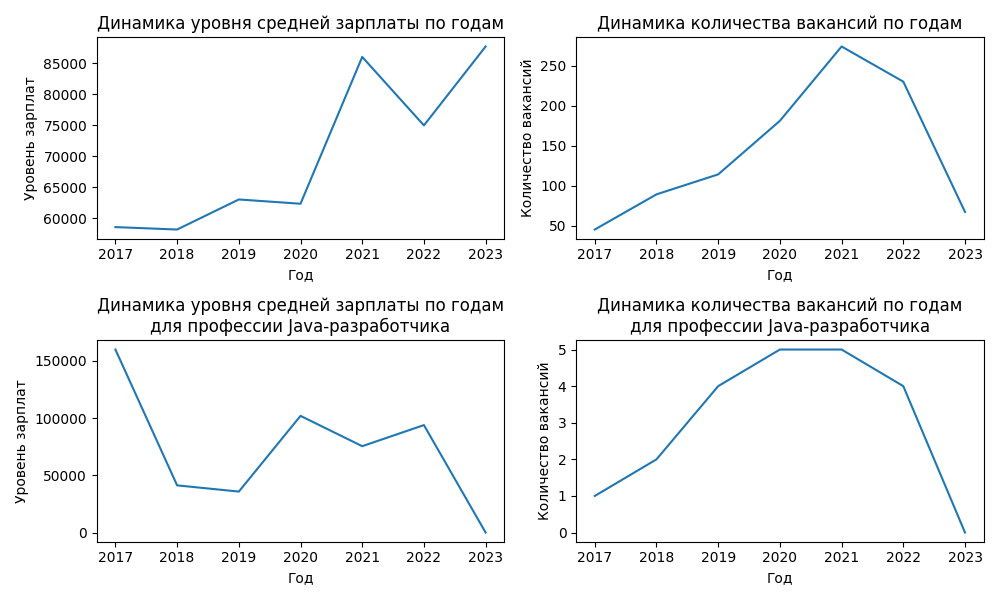
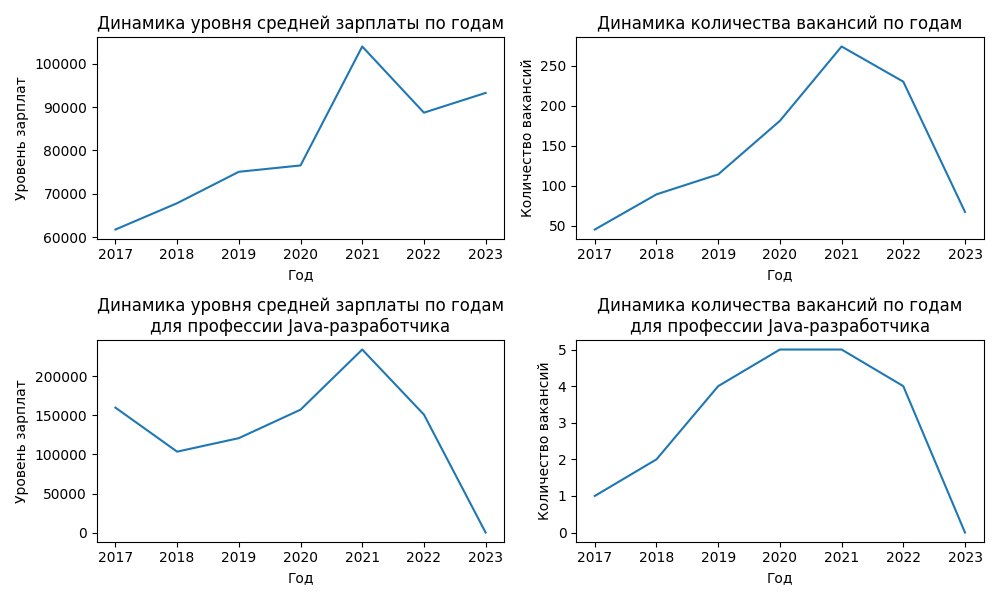
Исправленное API ЦБ РФ, красивые графики географики

diff --git a/vacancies_website/static/css/style.css b/vacancies_website/static/css/style.css
@@ -98,6 +98,10 @@ p{
     padding-left: 15px;
 }
 
+.geo-graph-img {
+    padding-top: -200px;
+}
+
 .main-block{
     min-height: 553px;
 }

diff --git a/vacancies_website/utility_georaphy.py b/vacancies_website/utility_georaphy.py
@@ -5,19 +5,34 @@ from vacancies_website.currency import get_curent_salary
 
 
 def get_geograpgy_info():
-
 	file_name = "C:/Users/eldo3/Downloads/example_vacancies/vacancies_for_learn_demo.csv"
 	vac_name = 'java'
 	vacancies = pd.read_csv(file_name)
 	pd.set_option('display.max_columns', None)
+
 	vacancies['year'] = vacancies['published_at'].str[0:4]
 	vacancies['salary'] = get_curent_salary(vacancies)
+	sl = vacancies['salary']
+
+	area_percent_all = {}
+	area_salary_all = {}
+
+	all_vacancies_grouped_by_area = vacancies.groupby('area_name').agg(['sum', 'count'])['salary']
+
+	for index, row in all_vacancies_grouped_by_area.iterrows():
+		if row['count'] / len(all_vacancies_grouped_by_area) >= 0.1:
+			area_salary_all[index] = int((row['sum'] // row['count']))
+			area_percent_all[index] = row['count'] / len(all_vacancies_grouped_by_area)
+
+	area_salary_all = list(sorted(area_salary_all.items(), key=lambda x: x[1], reverse=True))
+	area_percent_all = list(sorted(area_percent_all.items(), key=lambda x: x[1], reverse=True))
 
 	sorted_vacancies = vacancies.loc[vacancies['name'].str.contains(vac_name, na=False, case=False)]
-
 	vacancies_grouped_by_area = sorted_vacancies.groupby('area_name').agg(['sum', 'count'])['salary']
+
 	area_percent = {}
 	area_salary = {}
+
 	for index, row in vacancies_grouped_by_area.iterrows():
 		if row['count'] / len(sorted_vacancies) >= 0.01:
 			area_salary[index] = int((row['sum'] // row['count']))
@@ -26,23 +41,48 @@ def get_geograpgy_info():
 	area_salary = list(sorted(area_salary.items(), key=lambda x: x[1], reverse=True))
 	area_percent = list(sorted(area_percent.items(), key=lambda x: x[1], reverse=True))
 
-	plt.figure(figsize=(10, 5))
+	get_geography_graph(area_salary_all, area_percent_all, area_salary, area_percent)
+
+
+def get_geography_graph(area_salary_all, area_percent_all, area_salary, area_percent):
+	plt.figure(figsize=(10, 25))
+	plt.subplots_adjust(hspace=0.7)
 
 	# График зарплат
-	plt.subplot(2, 2, 1)
+	plt.subplot(4, 1, 1)
+	plt.xticks(rotation=60)
+	area_names = [item[0] for item in area_salary_all]
+	salaries = [item[1] for item in area_salary_all]
+	plt.bar(area_names, salaries)
+	plt.xlabel('Город')
+	plt.ylabel('Уровень зарплат')
+	plt.title('Уровень зарплат по всем городам (в порядке убывания)')
+
+	# График процентов
+	plt.subplot(4, 1, 2)
+	plt.xticks(rotation=60)
+	area_names = [item[0] for item in area_percent_all]
+	percents = [item[1] for item in area_percent_all]
+	plt.bar(area_names, percents)
+	plt.xlabel('Город')
+	plt.ylabel('Доля вакансий')
+	plt.title('Доля вакансий по всем городам (в порядке убывания)')
+
+	# График зарплат
+	plt.subplot(4, 1, 3)
+	plt.xticks(rotation=60)
 	area_names = [item[0] for item in area_salary]
 	salaries = [item[1] for item in area_salary]
-	# plt.figure(figsize=(10, 5))
 	plt.bar(area_names, salaries)
 	plt.xlabel('Город')
 	plt.ylabel('Уровень зарплат')
 	plt.title('Уровень зарплат по городам (в порядке убывания)')
 
 	# График процентов
-	plt.subplot(2, 2, 2)
+	plt.subplot(4, 1, 4)
+	plt.xticks(rotation=60)
 	area_names = [item[0] for item in area_percent]
 	percents = [item[1] for item in area_percent]
-	# plt.figure(figsize=(10, 5))
 	plt.bar(area_names, percents)
 	plt.xlabel('Город')
 	plt.ylabel('Доля вакансий')
@@ -51,4 +91,4 @@ def get_geograpgy_info():
 	plt.savefig('vacancies_website/static/images/plot_geo')
 
 
-# get_geograpgy_info()
+get_geograpgy_info()

diff --git a/vacancies_website/currency.py b/vacancies_website/currency.py
@@ -1,6 +1,7 @@
 import sqlite3
 
 import pandas as pd
+from bs4 import BeautifulSoup
 
 
 def create_currency_table():
@@ -9,13 +10,10 @@ def create_currency_table():
 	from datetime import datetime
 	from sqlalchemy import create_engine
 
-	# Определите URL API
 	url = "https://www.cbr.ru/scripts/XML_daily.asp"
 
-	# Определите валюты, которые вам нужны
 	currencies = ["BYR", "USD", "EUR", "KZT", "UAH", "AZN", "KGS", "UZS", "GEL"]
 
-	# Создайте файл CSV
 	with open("vacancies_website/static/currency_table.csv", "w", newline="") as file:
 		writer = csv.writer(file)
 		writer.writerow(["date"] + currencies)
@@ -24,31 +22,25 @@ def create_currency_table():
 		date = datetime(2017, 1, 1)
 		end_date = datetime(2023, 12, 1)
 		while date <= end_date:
-			# Получите данные с API
 			response = requests.get(url, params={"date_req": date.strftime("%d/%m/%Y")})
-			data = response.content.decode("windows-1251")
 
-			# Извлеките курсы валют
-			rates = []
-			for currency in currencies:
-				start = data.find("<CharCode>" + currency + "</CharCode>")
-				if start != -1:
-					start = data.find("<Value>", start) + 7
-					end = data.find("</Value>", start)
-					rate = data[start:end].replace(",", ".")
-					rates.append(float(rate))
-				elif currency == "BYR" and start == -1:
-					start = data.find("<Value>", 887) + 7
-					end = data.find("</Value>", 887)
-					rate = data[start:end].replace(",", ".")
-					rates.append(float(rate))
-				else:
-					rates.append("")
+			soup = BeautifulSoup(response.content, 'xml')
+			valutes = soup.find_all('Valute')
 
-			# Запишите данные в CSV
+			rates = [0.0, 0.0, 0.0, 0.0, 0.0, 0.0, 0.0, 0.0, 0.0]
+			for valute in range(len(valutes)):
+				if valutes[valute].CharCode.text in currencies or valutes[valute].CharCode.text == "BYN":
+					course = valutes[valute].Value.text.replace(',', '.')
+					nominal = valutes[valute].Nominal.text
+					value = round(float(course) / float(nominal), 8)
+
+					if valutes[valute].CharCode.text == "BYN":
+						rates[currencies.index('BYR')] = value
+					else:
+						rates[currencies.index(valutes[valute].CharCode.text)] = value
+
 			writer.writerow([date.strftime("%Y-%m")] + rates)
 
-			# Перейдите к следующему месяцу
 			if date.month == 12:
 				date = date.replace(year=date.year + 1, month=1)
 			else:
@@ -71,6 +63,7 @@ def get_curent_salary(df):
 	salaries = df['salary_from'].copy()
 
 	for index, row in df.iterrows():
+		va = row['salary_currency']
 		salary = 0
 		date = str(row['published_at'][:7])
 		currency = 1
@@ -85,12 +78,15 @@ def get_curent_salary(df):
 		if pd.isna(row['salary_from']) and pd.isna(row['salary_to']) or currency is None:
 			salary = 0
 		elif pd.isna(row['salary_from']):
-			salary = int(row['salary_to'] / currency)
+			salary = int(row['salary_to'] * currency)
 		elif pd.isna(row['salary_to']):
-			salary = int(row['salary_from'] / currency)
+			salary = int(row['salary_from'] * currency)
 		else:
-			salary = int(((row['salary_from'] / currency) + (row['salary_to'] / currency)) // 2)
+			salary = int(((row['salary_from'] * currency) + (row['salary_to'] * currency)) // 2)
 
 		salaries[int(index)] = salary
 
 	return salaries
+
+
+# get_curent_salary(pd.read_csv("C:/Users/eldo3/Downloads/example_vacancies/vacancies_for_learn_demo.csv"))

diff --git a/vacancies_website/utility_demain.py b/vacancies_website/utility_demain.py
@@ -95,41 +95,3 @@ def get_demain_table(year_salary, year_count, year_salary_filtered, year_count_f
 	})
 
 	results.to_csv('vacancies_website/static/demain_table.csv', encoding='utf-8-sig', index=False)
-
-
-# def get_curent_salary(df):
-# 	database_name = 'mydatabase.db'
-# 	currency_table = 'mytable'
-#
-# 	conn = sqlite3.connect(database_name)
-#
-# 	salaries = df['salary_from'].copy()
-#
-# 	for index, row in df.iterrows():
-# 		salary = 0
-# 		date = str(row['published_at'][:7])
-# 		currency = 1
-#
-# 		if str(row['salary_currency']) != 'nan' and str(row['salary_currency']) != 'RUR':
-# 			sql_query = f"SELECT {str(row['salary_currency'])} FROM {currency_table} WHERE date = '{date}' "
-# 			cursor = conn.cursor()
-# 			cursor = cursor.execute(sql_query)
-#
-# 			currency = cursor.fetchall()[0][0]
-#
-# 		if pd.isna(row['salary_from']) and pd.isna(row['salary_to']) or currency is None:
-# 			salary = 0
-# 		elif pd.isna(row['salary_from']):
-# 			salary = int(row['salary_to'] / currency)
-# 		elif pd.isna(row['salary_to']):
-# 			salary = int(row['salary_from'] / currency)
-# 		else:
-# 			salary = int(((row['salary_from'] / currency) + (row['salary_to'] / currency)) // 2)
-#
-# 		salaries[int(index)] = salary
-#
-# 	return salaries
-
-
-# get_demain_info()
-

diff --git a/vacancies_website/models.py b/vacancies_website/models.py
@@ -12,8 +12,3 @@ class Currency(models.Model):
 	KGS = models.FloatField('KGS')
 	UZS = models.FloatField('UZS')
 	GEL = models.FloatField('GEL')
-
-
-class BookImport(models.Model):
-	csv_file = models.FileField(upload_to='uploads/')
-	date_added = models.DateTimeField(auto_now_add=True)
